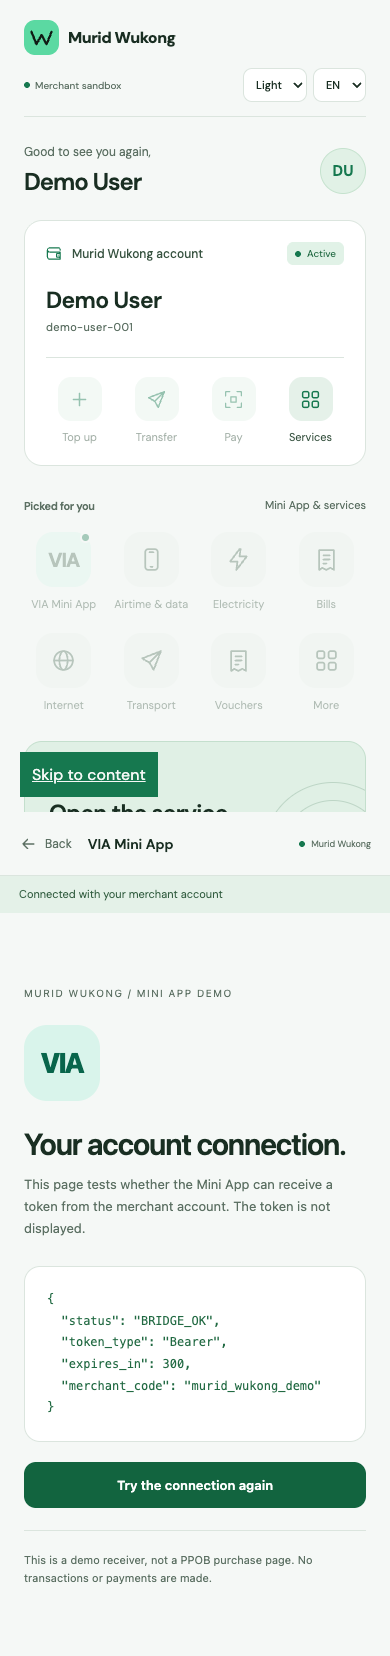
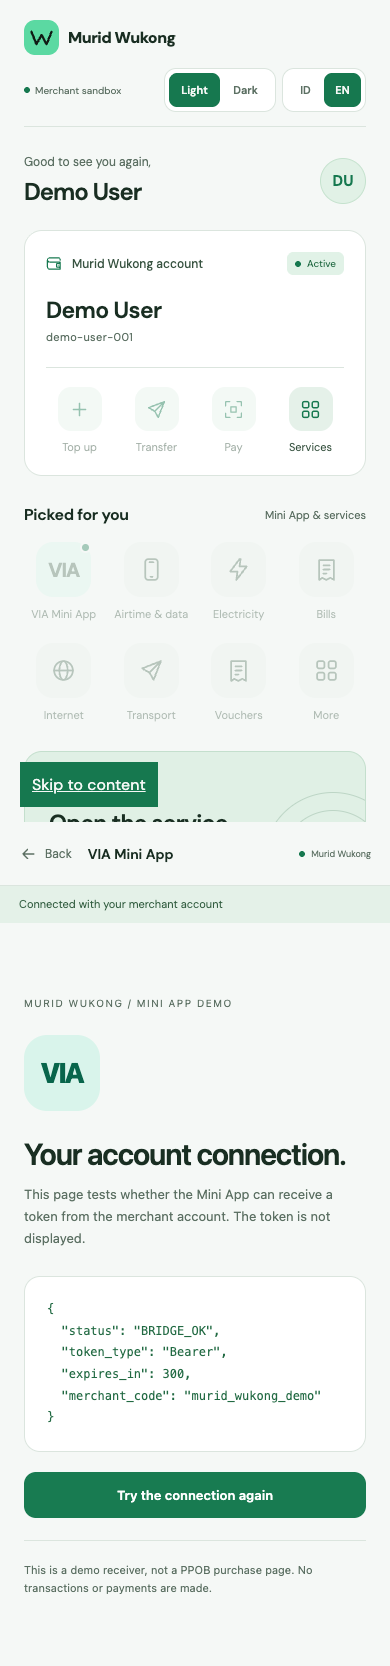
feat(ui): replace preference dropdowns with toggles

diff --git a/public/index.html b/public/index.html
@@ -24,13 +24,18 @@
     @media(prefers-reduced-motion:reduce){*,*::before,*::after{transition:none!important;scroll-behavior:auto!important}}
 
     .sr-only{position:absolute;width:1px;height:1px;padding:0;margin:-1px;overflow:hidden;clip:rect(0,0,0,0);white-space:nowrap;border:0}
-    .header-tools{display:flex;align-items:center;gap:22px}.preferences{display:flex;align-items:center;gap:6px}.preferences select{font:500 11px 'DM Sans',sans-serif;background:var(--surface);color:var(--ink);border:1px solid var(--line);border-radius:9px;padding:9px 7px;min-height:36px;cursor:pointer}.preferences select:focus-visible{outline:2px solid var(--green);outline-offset:3px}
+    .header-tools{display:flex;align-items:center;gap:22px}.preferences{display:flex;align-items:center;gap:8px}
+    .preference-toggle{position:relative;isolation:isolate;display:grid;grid-template-columns:1fr 1fr;align-items:center;min-width:112px;min-height:44px;padding:4px;border:1px solid var(--line);border-radius:12px;background:var(--surface);color:var(--muted);font-size:11px;font-weight:600}
+    .preference-toggle::before{content:'';position:absolute;z-index:-1;inset:4px auto 4px 4px;width:calc((100% - 8px)/2);border-radius:8px;background:var(--green);transition:transform .2s}
+    .preference-toggle[aria-checked="true"]::before{transform:translateX(100%)}.preference-toggle span{padding:0 7px;text-align:center;transition:color .2s}
+    .preference-toggle[aria-checked="false"] span:first-child,.preference-toggle[aria-checked="true"] span:last-child{color:var(--bg)}
+    .preference-toggle:hover{border-color:var(--green)}.preference-toggle:not(:disabled):active{transform:none}.language-toggle{min-width:84px}
     :root[data-theme="light"]{color-scheme:light;--bg:#f5f8f6;--surface:#fff;--raised:#e9f0eb;--line:#dbe5de;--ink:#192e22;--muted:#5c7063;--green:#16784f;--green-dark:#e4f1e8;--red:#ac2e2e}
     [data-theme="light"] .brandmark{background:#5bd9a2}[data-theme="light"] .wallet-front{background:#5bd9a2}[data-theme="light"] .wallet-back{background:#d0e8d8;border-color:#b3cdbc}[data-theme="light"] .primary{background:#187b51;color:#fff}[data-theme="light"] .primary:hover{background:#12643f}
     [data-theme="light"] .story-caption,[data-theme="light"] .login-footnote,[data-theme="light"] .footer,[data-theme="light"] .fine-print,[data-theme="light"] #configStatus{color:#607567}[data-theme="light"] .input-wrap{color:#677c6d}[data-theme="light"] .input-wrap input::placeholder{color:#75887b}[data-theme="light"] .login-footnote svg{color:#607567}
     [data-theme="light"] .avatar{background:#e1f1e6;border-color:#c5e2ce}[data-theme="light"] .membership-label,[data-theme="light"] .quick-action,[data-theme="light"] .service{color:#385341}[data-theme="light"] .status-chip{background:#e1f2e7;color:#226a43}[data-theme="light"] .quick-action .quick-icon{background:#e5f1e9}[data-theme="light"] .quick-action:not(:disabled):hover .quick-icon{background:#d3e9dc}[data-theme="light"] .service-icon{color:#486a54}[data-theme="light"] .steps li{color:#47634f}[data-theme="light"] .step-number{background:#e6eee8;color:#587160}[data-theme="light"] .steps li:first-child .step-number{background:#d6eddf;color:#166c42}
     [data-theme="light"] .secondary{border-color:#b6d6c1}[data-theme="light"] .secondary:hover{background:#e6f3eb}[data-theme="light"] .logout{color:#496650}[data-theme="light"] .logout:hover{color:#183f27}[data-theme="light"] .promo{background:#e0f0e5;border-color:#c4dfcd}[data-theme="light"] .promo .eyebrow{color:#3f7554}[data-theme="light"] .promo p{color:#466d53}[data-theme="light"] .promo-arrow{color:#388052}[data-theme="light"] .bottom-nav{background:#f9fcfaf5}[data-theme="light"] .nav-item{color:#607a68}[data-theme="light"] .nav-item.active{color:var(--green)}[data-theme="light"] #bridgeStatus{background:#e4f1e8;color:#345f42}
-    @media(max-width:800px){.masthead{min-height:108px;height:auto;padding:20px 0 14px;flex-wrap:wrap;gap:13px}.header-tools{width:100%;justify-content:space-between;gap:12px}.preferences select{padding:7px 8px;min-height:34px}.brand{font-size:16px}}
+    @media(max-width:800px){.masthead{min-height:108px;height:auto;padding:20px 0 14px;flex-wrap:wrap;gap:13px}.header-tools{width:100%;justify-content:space-between;gap:12px;flex-wrap:wrap}.preferences{gap:6px}.brand{font-size:16px}}
   </style>
 </head>
 <body>
@@ -61,10 +66,12 @@
     <div class="header-tools">
       <span class="sandbox"><span class="dot"></span>Merchant sandbox</span>
       <div class="preferences" role="group" aria-label="Pengaturan tampilan dan bahasa" id="preferences">
-        <label class="sr-only" for="themeSelect" data-i18n="theme">Tampilan</label>
-        <select id="themeSelect" data-preference="theme"><option value="dark" data-i18n="dark">Gelap</option><option value="light" data-i18n="light">Terang</option></select>
-        <label class="sr-only" for="languageSelect" data-i18n="language">Bahasa</label>
-        <select id="languageSelect" data-preference="language"><option value="id">ID</option><option value="en">EN</option></select>
+        <button type="button" id="themeToggle" class="preference-toggle" role="switch" aria-checked="true" data-i18n-aria-label="darkMode" aria-label="Mode gelap" data-preference="theme" data-off-value="light" data-on-value="dark">
+          <span aria-hidden="true" data-i18n="light">Terang</span><span aria-hidden="true" data-i18n="dark">Gelap</span>
+        </button>
+        <button type="button" id="languageToggle" class="preference-toggle language-toggle" role="switch" aria-checked="false" data-i18n-aria-label="englishLanguage" aria-label="Bahasa Inggris" data-preference="language" data-off-value="id" data-on-value="en">
+          <span aria-hidden="true">ID</span><span aria-hidden="true">EN</span>
+        </button>
       </div>
     </div>
   </header>

diff --git a/public/ui-preferences.js b/public/ui-preferences.js
@@ -3,6 +3,7 @@
   const messages = {
     pageTitle:['Murid Wukong — Simulator Merchant','Murid Wukong — Merchant Simulator'],
     skip:['Lewati ke konten','Skip to content'], theme:['Tampilan','Appearance'], language:['Bahasa','Language'], dark:['Gelap','Dark'], light:['Terang','Light'],
+    darkMode:['Mode gelap','Dark mode'], englishLanguage:['Bahasa Inggris','English language'],
     tagline:['Satu akun. Banyak kemungkinan.','One account. More possibilities.'], headline:['Semua kebutuhan.','Your everyday needs.'], headlineAccent:['Satu langkah dekat.','One step closer.'],
     introduction:['Jelajahi layanan favoritmu bersama Murid Wukong. Mulai dari sini, lanjut ke VIA.','Explore your favorite services with Murid Wukong. Start here, continue with VIA.'],
     memberAccess:['Akses member.','Member access.'], memberCaption:['Satu akun untuk membuka layanan VIA.','One account to access VIA services.'], storyCaption:['Pengalaman merchant, dalam versi simulasi.','The merchant experience, in a simulation.'],
@@ -37,7 +38,9 @@
     for (const attribute of ['placeholder','aria-label']) {
       document.querySelectorAll(`[data-i18n-${attribute}]`).forEach(el=>el.setAttribute(attribute,t(el.getAttribute(`data-i18n-${attribute}`))));
     }
-    document.querySelectorAll('[data-preference]').forEach(el=>{el.value=state[el.dataset.preference];});
+    document.querySelectorAll('[data-preference]').forEach(el=>{
+      el.setAttribute('aria-checked',String(state[el.dataset.preference]===el.dataset.onValue));
+    });
     if (document.body?.dataset.page==='receiver') document.title=t('receiverTitle');
     else document.title=t('pageTitle');
     window.dispatchEvent(new Event('mw:preferences'));
@@ -53,7 +56,8 @@
   document.documentElement.dataset.theme=state.theme;
   document.documentElement.lang=state.language;
   document.addEventListener('DOMContentLoaded',()=>{
-    document.querySelectorAll('[data-preference]').forEach(el=>el.addEventListener('change',()=>set(el.dataset.preference,el.value)));
+    document.querySelectorAll('[data-preference]').forEach(el=>el.addEventListener('click',()=>set(el.dataset.preference,
+      state[el.dataset.preference]===el.dataset.onValue?el.dataset.offValue:el.dataset.onValue)));
     apply();
   });
   window.addEventListener('storage',event=>{

diff --git a/docs/ui-preview.md b/docs/ui-preview.md
@@ -30,7 +30,7 @@ Verified with Chrome at 390 × 844 and 1440 × 1000: incorrect login, password t
 
 ## Appearance and language controls
 
-Header selectors support **Light / Dark** and **ID / EN** before and after login. With no saved choice, theme follows the browser system appearance and language defaults to Indonesian. Explicit choices persist in origin-local `localStorage` under `mw.theme` and `mw.language`. No cookies, passwords or tokens are placed there. If storage is blocked, controls still work for the current page.
+Each header toggle switches immediately between its two labeled positions, with a sliding highlight showing the current choice. Native buttons support mouse, touch, Enter and Space. Screen readers receive a stable switch label and checked state (dark mode / English enabled). Header toggles support **Light / Dark** and **ID / EN** before and after login. With no saved choice, theme follows the browser system appearance and language defaults to Indonesian. Explicit choices persist in origin-local `localStorage` under `mw.theme` and `mw.language`. No cookies, passwords or tokens are placed there. If storage is blocked, controls still work for the current page.
 
 Translated content includes static copy, placeholders, accessible labels, login loading/errors, configuration notices, bridge status and demo receiver copy. User profile names/IDs and protocol values such as `BRIDGE_OK` remain unchanged. Switching language preserves form values and the active session. Open same-origin demo receivers and other tabs synchronize via browser storage events. External Mini App frontends do not receive a new parameter or bridge message; theme/language integration there remains the receiving team's responsibility.
 

diff --git a/docs/verification.md b/docs/verification.md
@@ -72,3 +72,14 @@ Added light/dark and ID/EN selectors with browser preference persistence and sha
 - Chrome 320 px light/EN — login/home overflow PASS. Live error translation, cross-tab and active receiver sync, and controls with blocked localStorage PASS.
 - Public screenshots contain synthetic profile data only. External FE theme propagation is not implemented; external integration and deployed Vercel revision were not evaluated.
 - Telemetry workflow-start timed out at the configured publisher; lifecycle tracking remains incomplete, without automatic retries.
+
+
+## Header preference toggles
+
+Replaced the appearance/language dropdowns with labeled two-position switches and a sliding active indicator. Existing saved preferences remain compatible. Screenshot galleries now show the toggle controls.
+
+- `python -m pytest -q` — PASS, 7 tests; existing Starlette TestClient deprecation warning remains.
+- `node tests/test_bridge.mjs` and `node tests/test_preferences.mjs` — PASS. Updated preference tests exercise real click listeners, repeated toggles, checked states, persistence, storage sync and blocked storage.
+- Local Chrome at 320, 390 and 1440 px — PASS for all four theme/language combinations: click, Enter/Space keyboard activation, reload persistence, login, switches after login, embedded receiver, logout and horizontal overflow. Switch hit areas are at least 44 px high. No uncaught page errors.
+- Chrome with blocked localStorage — toggle clicks PASS. Screenshots contain synthetic account data only.
+- External FE and deployed Vercel revision were not evaluated. Telemetry workflow-start timed out at the existing publisher; lifecycle tracking remains incomplete without retry.

diff --git a/README.md b/README.md
@@ -42,4 +42,4 @@ No database, background workers, downstream admin credentials, or production pay
 
 UI preview: [mobile screenshot](docs/merchant-mobile.png) and [login/home/container gallery](docs/ui-preview.md). Actual checks and pending external integration: [verification record](docs/verification.md).
 
-Appearance and language: use the header selectors for **Light / Dark** and **ID / EN**. Preferences persist in this browser. The initial theme follows the system appearance; language defaults to Indonesian. The built-in receiver follows these preferences; an external VIA frontend manages its own theme/language.
+Appearance and language: use the header toggles for **Light / Dark** and **ID / EN**. Preferences persist in this browser. The initial theme follows the system appearance; language defaults to Indonesian. The built-in receiver follows these preferences; an external VIA frontend manages its own theme/language.
